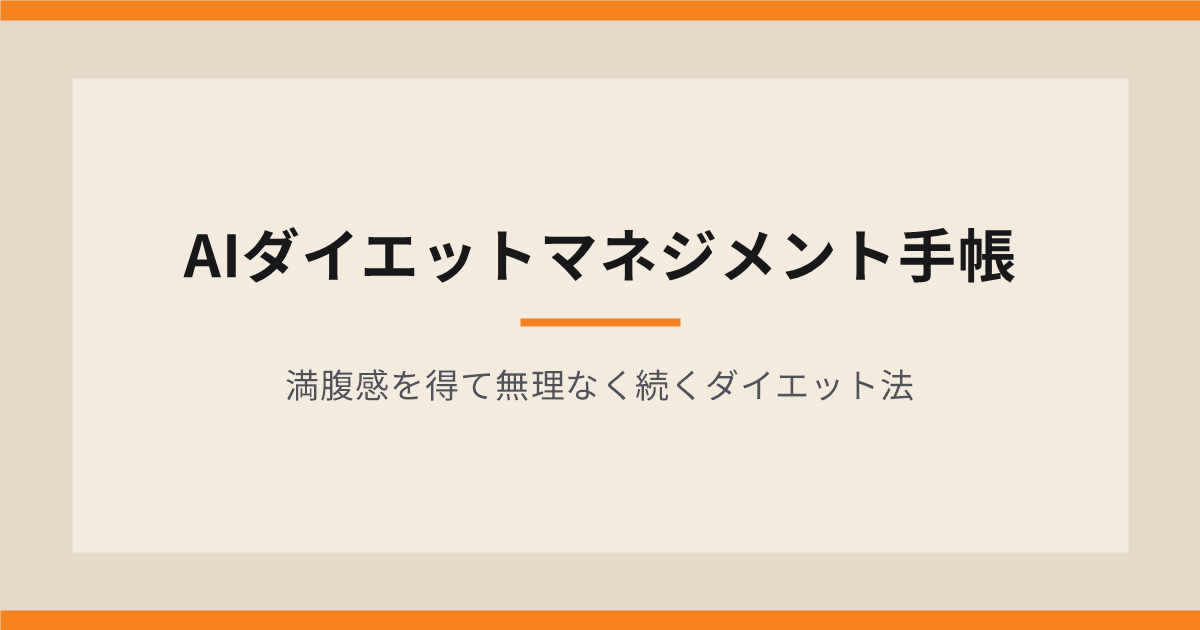
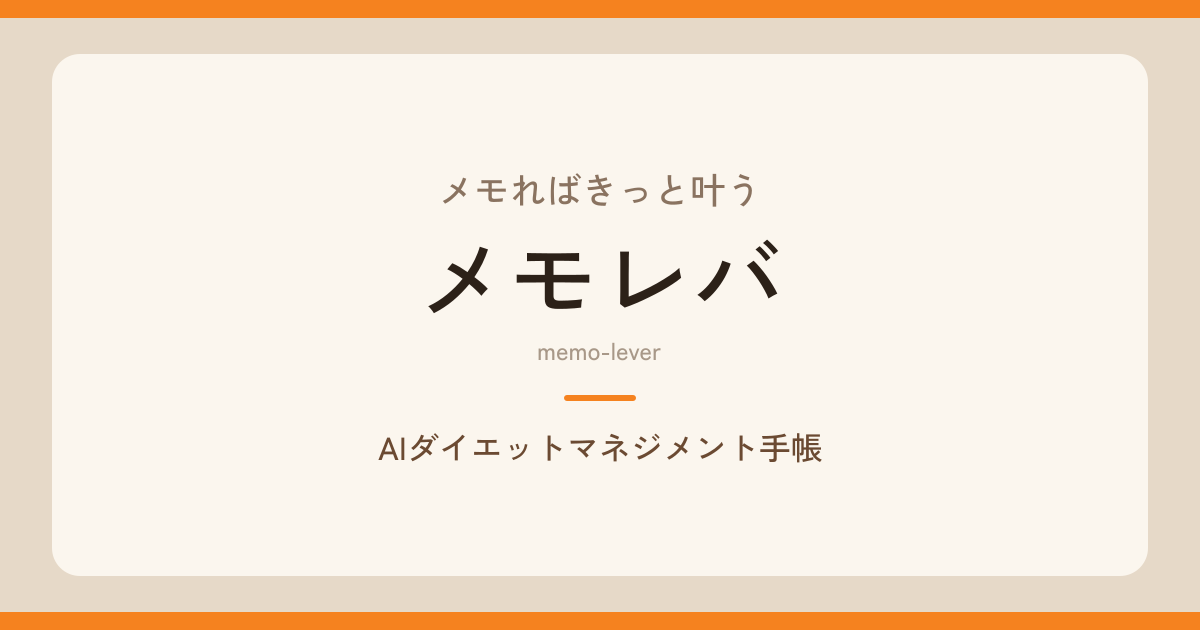
Rename the app to メモレバ and keep the old title as a searchable subtitle.

diff --git a/lib/site.ts b/lib/site.ts
@@ -1,17 +1,27 @@
 import type { Metadata } from "next";
+import { APP_NAME, APP_CATCHCOPY, APP_SUBTITLE } from "@/lib/app-title";
 
-/** 公開サイトの共通設定。名前や説明文を変えるときは、このファイルを直す。 */
+/** 公開サイトの共通設定。名前は lib/app-title.ts。説明文を変えるときは、このファイルを直す。 */
+
+export { APP_NAME, APP_NAME_EN, APP_CATCHCOPY, APP_SUBTITLE } from "@/lib/app-title";
 
 export const SITE_URL = "https://diet.finance-tower.com";
 
-/** アプリ内の表示名。lib/app-title.ts の APP_TITLE は、この値を使う。 */
-export const SITE_NAME = "AIダイエットマネジメント手帳";
+/** アプリ内の表示名。値は APP_NAME。 */
+export const SITE_NAME = APP_NAME;
+
+/** 検索用の副題。値は APP_SUBTITLE。 */
+export const SITE_ALTERNATE_NAME = APP_SUBTITLE;
 
 export const SITE_TITLE =
-  "【無料】AIダイエットマネジメント手帳 ｜AIがカロリーと体重を管理する、新時代の食事記録アプリ";
+  `【無料】${APP_NAME} ｜${APP_SUBTITLE} - AIがカロリーと体重を管理する食事記録アプリ`;
 
 export const SITE_DESCRIPTION =
-  "満腹感を得て無理なく続くダイエット法。食事名からAIがカロリーを自動推定、タニタの体組成計(Health Planet)と連携して体重もグラフ化。ツンデレ猫や関西のおかんなど、5人のAIアドバイザーが親身に寄り添う無料のダイエット記録アプリです。";
+  `${APP_NAME}は、${APP_SUBTITLE}です。満腹感を得て無理なく続くダイエット法。食事名からAIがカロリーを自動推定、タニタの体組成計(Health Planet)と連携して体重もグラフ化。ツンデレ猫や関西のおかんなど、5人のAIアドバイザーが親身に寄り添う無料のダイエット記録アプリです。`;
+
+/** 紹介ページのフッター上と、使い方の最後に出す共通の免責。 */
+export const APP_DISCLAIMER =
+  "効果や結果には個人差があります。食事・運動の目安は一般的な情報で、医療上の助言ではありません。";
 
 export const OPERATOR_NAME = "ピークアンドバレー合同会社";
 
@@ -29,14 +39,14 @@ export function publicContactEmail() {
 
 export const OG_IMAGE_PATH = "/og.png";
 
-const ogImage = {
+export const OG_IMAGE = {
   url: OG_IMAGE_PATH,
   width: 1200,
   height: 630,
-  alt: SITE_NAME,
+  alt: `${APP_CATCHCOPY}　${APP_NAME}`,
 } as const;
 
-/** 各ページの title、説明、canonical、OGP。title の書式は layout の template と揃える。 */
+/** 各ページの title、説明、canonical、OGP。title の書式は layout の template と揃える。英語表記は入れない。 */
 export function pageMetadata(input: {
   title: string;
   description?: string;
@@ -60,7 +70,7 @@ export function pageMetadata(input: {
       type: "website",
       siteName: SITE_NAME,
       locale: "ja_JP",
-      images: [ogImage],
+      images: [OG_IMAGE],
     },
     twitter: {
       card: "summary_large_image",

diff --git a/components/landing-page.tsx b/components/landing-page.tsx
@@ -1,7 +1,11 @@
+import { AppBrand } from "@/components/app-brand";
 import { InstantLink } from "@/components/instant-link";
 import { authSubmitClass } from "@/components/auth-styles";
+import { APP_NAME, APP_NAME_EN, APP_SUBTITLE } from "@/lib/app-title";
 import {
+  APP_DISCLAIMER,
   OPERATOR_NAME,
+  SITE_ALTERNATE_NAME,
   SITE_DESCRIPTION,
   SITE_NAME,
   SITE_URL,
@@ -10,8 +14,6 @@ import {
 
 const CATCH = "満腹感を得て無理なく続くダイエット法。";
 const SUBLINE = "AIがカロリーと体重を管理する、新時代の無料食事記録アプリ";
-const DISCLAIMER =
-  "カロリーの数値は目安です。このアプリの内容は、医療行為や診断ではありません。持病のある方や、体調に不安のある方は、医師や管理栄養士にご相談ください。";
 
 const FEATURES = [
   {
@@ -83,6 +85,7 @@ function structuredData() {
       {
         "@type": "WebApplication",
         name: SITE_NAME,
+        alternateName: [SITE_ALTERNATE_NAME, APP_NAME_EN],
         url: SITE_URL,
         description: SITE_DESCRIPTION,
         applicationCategory: "HealthApplication",
@@ -125,14 +128,11 @@ export function LandingPage() {
         }}
       />
       <main className="w-full min-w-0 max-w-2xl break-words rounded-3xl bg-[#F3EBDD] p-6 shadow-sm sm:p-8">
-        <h1 className="text-2xl font-semibold leading-snug tracking-tight text-balance text-zinc-950 sm:text-3xl">
-          {SITE_NAME}
-        </h1>
+        <AppBrand heading size="hero" />
         <p className="mt-4 text-lg font-medium leading-7 text-balance text-zinc-800">{CATCH}</p>
         <p className="mt-2 text-sm leading-6 text-zinc-600">{SUBLINE}</p>
         <p className="mt-6 text-base leading-7 text-zinc-800">
-          {SITE_NAME}
-          は、食事名を入力するとAIがカロリーを推定し、5人のAIアドバイザーが毎日コメントをくれる、無料のダイエット記録アプリです。
+          {APP_NAME}（{APP_SUBTITLE}）は、食事名を入力するとAIがカロリーを推定し、5人のAIアドバイザーが毎日コメントをくれる、無料のダイエット記録アプリです。
         </p>
         <div className="mt-8 flex flex-col gap-1">
           <InstantLink href="/signup" className={authSubmitClass}>
@@ -171,7 +171,8 @@ export function LandingPage() {
             ))}
           </div>
         </section>
-        <footer className="mt-10 border-t border-[#E4D7C6] pt-6">
+        <p className="mt-10 text-xs leading-5 text-zinc-500">{APP_DISCLAIMER}</p>
+        <footer className="mt-6 border-t border-[#E4D7C6] pt-6">
           <p className="text-sm text-zinc-700">運営: {OPERATOR_NAME}</p>
           {email ? (
             <p className="mt-2 text-sm text-zinc-700">
@@ -184,7 +185,7 @@ export function LandingPage() {
               </a>
             </p>
           ) : null}
-          <p className="mt-4 text-xs leading-5 text-zinc-500">{DISCLAIMER}</p>
+          <p className="mt-4 text-xs text-zinc-400">{APP_NAME_EN}</p>
         </footer>
       </main>
     </div>

diff --git a/app/howto/page.tsx b/app/howto/page.tsx
@@ -1,3 +1,4 @@
+import { AppBrand } from "@/components/app-brand";
 import { InstantLink } from "@/components/instant-link";
 import {
   HOWTO_APPENDIX,
@@ -8,7 +9,7 @@ import {
   HOWTO_SECTIONS,
   HOWTO_TITLE,
 } from "@/lib/howto";
-import { pageMetadata } from "@/lib/site";
+import { APP_DISCLAIMER, pageMetadata } from "@/lib/site";
 import { getAuthUserId } from "@/lib/supabase/server";
 
 export const metadata = pageMetadata({
@@ -24,8 +25,8 @@ export default async function HowToPage() {
   return (
     <div className="flex flex-1 flex-col items-center bg-[#E6D9C8] px-4 py-10 font-sans">
       <main className="w-full max-w-2xl rounded-3xl bg-[#F3EBDD] p-6 shadow-sm sm:p-8">
-        <p className="text-sm font-medium text-[#F5821F]">AI Diet Diary</p>
-        <h1 className="mt-2 text-2xl font-semibold tracking-tight text-zinc-950">{HOWTO_TITLE}</h1>
+        <AppBrand size="label" />
+        <h1 className="mt-4 text-2xl font-semibold tracking-tight text-zinc-950">{HOWTO_TITLE}</h1>
         <p className="mt-3 text-sm leading-6 text-zinc-600">{HOWTO_LEAD}</p>
         <div className="mt-8 flex flex-col gap-8">
           {HOWTO_SECTIONS.map((section) => (
@@ -57,6 +58,7 @@ export default async function HowToPage() {
             </section>
           ) : null}
         </div>
+        <p className="mt-10 text-xs leading-5 text-zinc-500">{APP_DISCLAIMER}</p>
       </main>
     </div>
   );

diff --git a/components/app-brand.tsx b/components/app-brand.tsx
@@ -1,0 +1,44 @@
+import { APP_CATCHCOPY, APP_NAME, APP_SUBTITLE } from "@/lib/app-title";
+
+const SIZES = {
+  hero: {
+    catch: "text-sm font-medium text-zinc-600 sm:text-base",
+    name: "text-2xl font-semibold tracking-tight text-zinc-950 sm:text-3xl",
+    sub: "mt-1 text-sm font-normal leading-5 text-zinc-500",
+  },
+  plain: {
+    catch: "text-xs font-medium text-[#8A7360] sm:text-sm",
+    name: "text-lg font-semibold text-[#6B4A32] sm:text-xl",
+    sub: "mt-0.5 text-xs leading-4 text-[#8A7360]",
+  },
+  label: {
+    catch: "text-xs font-medium text-[#8A7360]",
+    name: "text-base font-semibold text-[#6B4A32]",
+    sub: "mt-0.5 text-[11px] leading-4 text-[#8A7360]",
+  },
+} as const;
+
+export function AppBrand({
+  heading = false,
+  size = "plain",
+}: {
+  heading?: boolean;
+  size?: keyof typeof SIZES;
+}) {
+  const tone = SIZES[size];
+  const lockup = (
+    <>
+      <span className="flex max-w-full flex-wrap items-baseline gap-x-2 gap-y-0.5 leading-snug">
+        <span className={`whitespace-nowrap ${tone.catch}`}>{APP_CATCHCOPY}</span>
+        <span className={`whitespace-nowrap ${tone.name}`}>{APP_NAME}</span>
+      </span>
+      <span className={`block ${tone.sub}`}>{APP_SUBTITLE}</span>
+    </>
+  );
+
+  if (heading) {
+    return <h1 className="min-w-0">{lockup}</h1>;
+  }
+
+  return <div className="min-w-0">{lockup}</div>;
+}

diff --git a/lib/share-situations.ts b/lib/share-situations.ts
@@ -1,4 +1,6 @@
-export const SHARE_BRAND = "AIダイエットマネジメント手帳";
+import { APP_NAME } from "@/lib/app-title";
+
+export const SHARE_BRAND = APP_NAME;
 export const SHARE_DOMAIN = "diet.finance-tower.com";
 export const SHARE_DISCLAIMER = "AIによる一般的な情報です";
 
@@ -91,7 +93,7 @@ export function shareEmoji(characterId: ShareCharacterId) {
 }
 
 export function sharePostText(situation: string, advisorName: string, characterId: ShareCharacterId) {
-  return `${situation}。でも、${advisorName}に励まされた${shareEmoji(characterId)}\n同じように頑張ってる人、一緒に続けよう\n#ダイエット記録 #ダイエット仲間 #AIダイエット手帳`;
+  return `${situation}。でも、${advisorName}に励まされた${shareEmoji(characterId)}\n同じように頑張ってる人、一緒に続けよう\n#ダイエット記録 #ダイエット仲間 #${APP_NAME}`;
 }
 
 export function shareReplyFallback(characterId: ShareCharacterId, situationId: ShareSituationId) {

diff --git a/components/auth-frame.tsx b/components/auth-frame.tsx
@@ -1,4 +1,5 @@
 import type { ReactNode } from "react";
+import { AppBrand } from "@/components/app-brand";
 
 export function AuthFrame({
   title,
@@ -12,8 +13,8 @@ export function AuthFrame({
   return (
     <div className="flex flex-1 flex-col items-center bg-[#E6D9C8] px-4 py-10 font-sans">
       <main className="w-full max-w-md rounded-3xl bg-[#F3EBDD] p-6 shadow-sm sm:p-8">
-        <p className="text-sm font-medium text-[#F5821F]">AI Diet Diary</p>
-        <h1 className="mt-2 text-2xl font-semibold tracking-tight text-zinc-950">{title}</h1>
+        <AppBrand size="label" />
+        <h1 className="mt-4 text-2xl font-semibold tracking-tight text-zinc-950">{title}</h1>
         <p className="mt-3 text-sm leading-6 text-zinc-600">{description}</p>
         <div className="mt-6">{children}</div>
       </main>

diff --git a/app/layout.tsx b/app/layout.tsx
@@ -1,6 +1,6 @@
 import type { Metadata } from "next";
 import { Geist, Geist_Mono } from "next/font/google";
-import { OG_IMAGE_PATH, SITE_DESCRIPTION, SITE_NAME, SITE_URL } from "@/lib/site";
+import { OG_IMAGE, OG_IMAGE_PATH, SITE_DESCRIPTION, SITE_NAME, SITE_URL } from "@/lib/site";
 import "./globals.css";
 
 const geistSans = Geist({
@@ -24,11 +24,15 @@ export const metadata: Metadata = {
   openGraph: {
     type: "website",
     locale: "ja_JP",
+    title: SITE_NAME,
+    description: SITE_DESCRIPTION,
     siteName: SITE_NAME,
-    images: [{ url: OG_IMAGE_PATH, width: 1200, height: 630, alt: SITE_NAME }],
+    images: [OG_IMAGE],
   },
   twitter: {
     card: "summary_large_image",
+    title: SITE_NAME,
+    description: SITE_DESCRIPTION,
     images: [OG_IMAGE_PATH],
   },
   verification: {

diff --git a/components/month-calendar.tsx b/components/month-calendar.tsx
@@ -1,6 +1,6 @@
 import { InstantLink } from "@/components/instant-link";
 import { navIcon } from "@/components/nav-styles";
-import { APP_TITLE } from "@/lib/app-title";
+import { AppBrand } from "@/components/app-brand";
 import {
   addMonths,
   formatKcal,
@@ -71,9 +71,9 @@ export function MonthCalendar({
           マイページ
         </InstantLink>
       </div>
-      <p className="mt-2 text-lg font-medium leading-snug text-[#6B4A32] sm:text-xl">
-        {APP_TITLE}
-      </p>
+      <div className="mt-2">
+        <AppBrand />
+      </div>
       <div className="mt-1 flex flex-wrap items-center gap-x-3 gap-y-2">
         <div className="flex items-center gap-1 sm:gap-3">
           <InstantLink

diff --git a/components/auth-loading.tsx b/components/auth-loading.tsx
@@ -1,3 +1,5 @@
+import { AppBrand } from "@/components/app-brand";
+
 export function AuthLoading({ label }: { label: string }) {
   return (
     <div className="flex flex-1 flex-col items-center bg-[#E6D9C8] px-4 py-10 font-sans">
@@ -5,7 +7,7 @@ export function AuthLoading({ label }: { label: string }) {
         className="w-full max-w-md rounded-3xl bg-[#F3EBDD] p-6 shadow-sm sm:p-8"
         aria-busy="true"
       >
-        <p className="text-sm font-medium text-[#F5821F]">AI Diet Diary</p>
+        <AppBrand size="label" />
         <p className="mt-4 text-sm text-zinc-600">{label}</p>
       </main>
     </div>

diff --git a/lib/app-title.ts b/lib/app-title.ts
@@ -1,2 +1,11 @@
-/** 画面に出す手帳の名前。値は lib/site.ts の SITE_NAME。変えるときはそちらを直す。 */
-export { SITE_NAME as APP_TITLE } from "@/lib/site";
+/** 画面と文章に出す名前。変えるときは、この4つだけを直す。 */
+
+export const APP_NAME = "メモレバ";
+
+/** すべて小文字、ハイフンあり。 */
+export const APP_NAME_EN = "memo-lever";
+
+export const APP_CATCHCOPY = "メモればきっと叶う";
+
+/** 旧アプリ名。検索用の副題として残す。 */
+export const APP_SUBTITLE = "AIダイエットマネジメント手帳";
